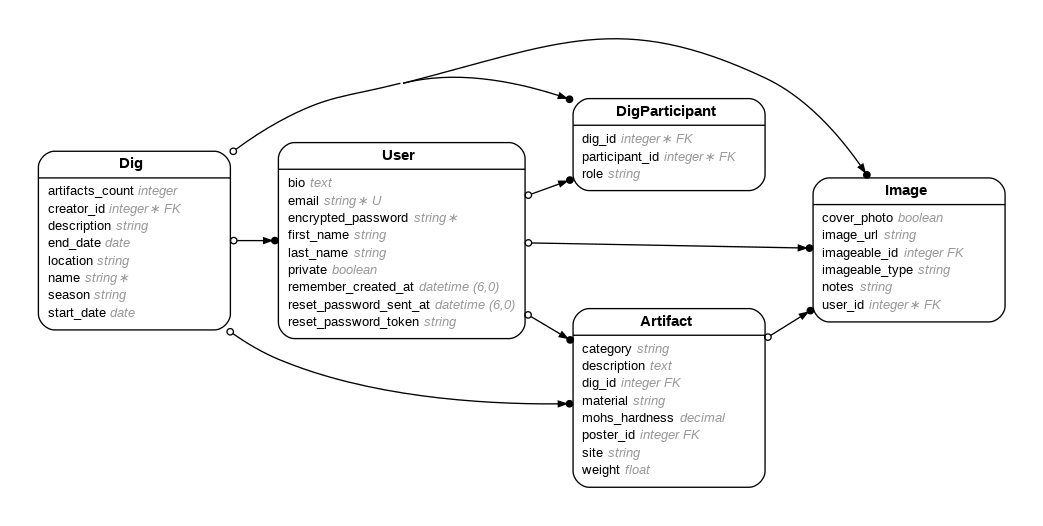
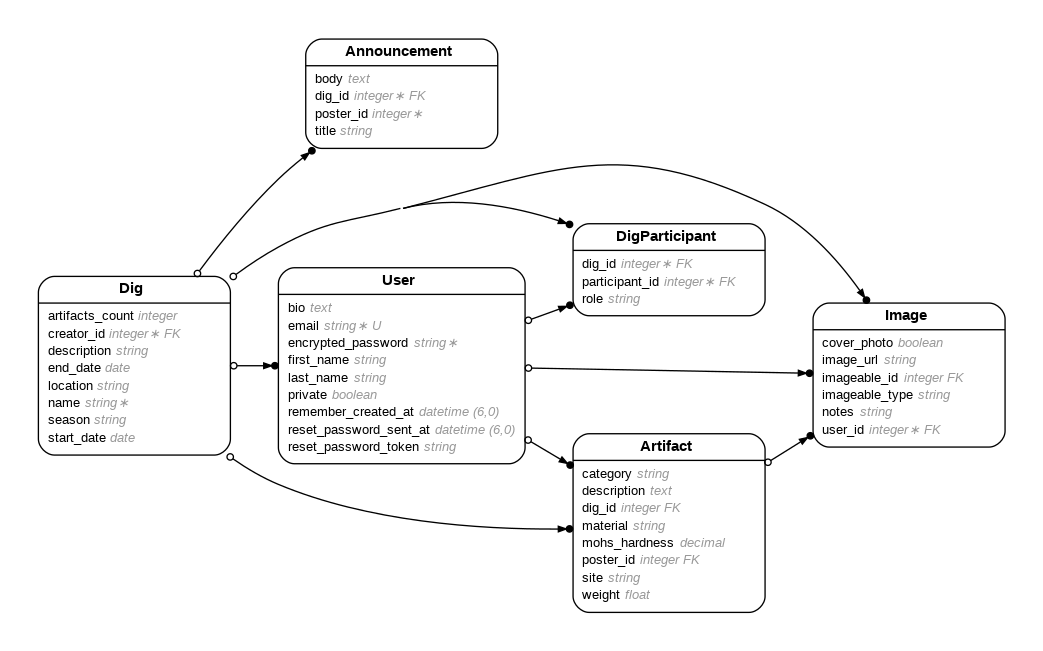
Scaffolded announcements, index works, added pundit policy

diff --git a/app/controllers/announcements_controller.rb b/app/controllers/announcements_controller.rb
@@ -1,0 +1,76 @@
+class AnnouncementsController < ApplicationController
+  before_action :set_announcement, only: %i[ show edit update destroy ]
+  before_action :set_dig
+  before_action(except: [:new, :create]) { authorize(@announcement || Announcement) }
+
+  # GET /announcements or /announcements.json
+  def index
+    @announcements = Announcement.where(:dig_id => @dig.id)
+  end
+
+  # GET /announcements/1 or /announcements/1.json
+  def show
+  end
+
+  # GET /announcements/new
+  def new
+    @announcement = Announcement.new
+  end
+
+  # GET /announcements/1/edit
+  def edit
+  end
+
+  # POST /announcements or /announcements.json
+  def create
+    @announcement = Announcement.new(announcement_params)
+
+    respond_to do |format|
+      if @announcement.save
+        format.html { redirect_to announcement_url(@announcement), notice: "Announcement was successfully created." }
+        format.json { render :show, status: :created, location: @announcement }
+      else
+        format.html { render :new, status: :unprocessable_entity }
+        format.json { render json: @announcement.errors, status: :unprocessable_entity }
+      end
+    end
+  end
+
+  # PATCH/PUT /announcements/1 or /announcements/1.json
+  def update
+    respond_to do |format|
+      if @announcement.update(announcement_params)
+        format.html { redirect_to announcement_url(@announcement), notice: "Announcement was successfully updated." }
+        format.json { render :show, status: :ok, location: @announcement }
+      else
+        format.html { render :edit, status: :unprocessable_entity }
+        format.json { render json: @announcement.errors, status: :unprocessable_entity }
+      end
+    end
+  end
+
+  # DELETE /announcements/1 or /announcements/1.json
+  def destroy
+    @announcement.destroy
+
+    respond_to do |format|
+      format.html { redirect_to announcements_url, notice: "Announcement was successfully destroyed." }
+      format.json { head :no_content }
+    end
+  end
+
+  private
+    # Use callbacks to share common setup or constraints between actions.
+    def set_announcement
+      @announcement = Announcement.find(params[:id])
+    end
+
+    # Only allow a list of trusted parameters through.
+    def announcement_params
+      params.require(:announcement).permit(:title, :body, :poster_id, :dig_id)
+    end
+
+    def set_dig
+      @dig = Dig.find(params.fetch(:dig_id))
+    end
+end

diff --git a/db/schema.rb b/db/schema.rb
@@ -10,7 +10,18 @@
 #
 # It's strongly recommended that you check this file into your version control system.
 
-ActiveRecord::Schema[7.0].define(version: 2023_11_16_214429) do
+ActiveRecord::Schema[7.0].define(version: 2023_11_19_184412) do
+  create_table "announcements", force: :cascade do |t|
+    t.string "title"
+    t.text "body"
+    t.integer "poster_id", null: false
+    t.integer "dig_id", null: false
+    t.datetime "created_at", null: false
+    t.datetime "updated_at", null: false
+    t.index ["dig_id"], name: "index_announcements_on_dig_id"
+    t.index ["poster_id"], name: "index_announcements_on_poster_id"
+  end
+
   create_table "artifacts", force: :cascade do |t|
     t.text "description"
     t.string "material"
@@ -78,6 +89,8 @@ ActiveRecord::Schema[7.0].define(version: 2023_11_16_214429) do
     t.index ["reset_password_token"], name: "index_users_on_reset_password_token", unique: true
   end
 
+  add_foreign_key "announcements", "digs"
+  add_foreign_key "announcements", "posters"
   add_foreign_key "dig_participants", "digs"
   add_foreign_key "dig_participants", "users", column: "participant_id"
   add_foreign_key "digs", "users", column: "creator_id"

diff --git a/app/policies/announcement_policy.rb b/app/policies/announcement_policy.rb
@@ -1,0 +1,52 @@
+class AnnouncementPolicy < ApplicationPolicy
+  attr_reader :user, :announcement
+
+  def initialize(user, announcement)
+    @user = user
+    @announcement = announcement
+  end
+
+  def index?
+    true
+  end
+
+  def show?
+    participant?
+  end
+
+  def new?
+    create?
+  end
+
+  def create?
+    lead?
+  end
+
+  def edit?
+    update?
+  end
+
+  def update?
+    poster?
+  end
+
+  def destroy?
+    poster?
+  end
+
+
+  private
+
+  def participant?
+    @announcement.dig.dig_participants.any? { |participant| participant.participant_id == user.id }
+  end
+
+  def lead?
+    @announcement.dig.leads.any? { |lead| lead.participant_id == user.id }
+  end
+
+  def poster?
+    @announcement.poster == user
+  end
+
+end

diff --git a/app/models/announcement.rb b/app/models/announcement.rb
@@ -1,0 +1,26 @@
+# == Schema Information
+#
+# Table name: announcements
+#
+#  id         :integer          not null, primary key
+#  body       :text
+#  title      :string
+#  created_at :datetime         not null
+#  updated_at :datetime         not null
+#  dig_id     :integer          not null
+#  poster_id  :integer          not null
+#
+# Indexes
+#
+#  index_announcements_on_dig_id     (dig_id)
+#  index_announcements_on_poster_id  (poster_id)
+#
+# Foreign Keys
+#
+#  dig_id     (dig_id => digs.id)
+#  poster_id  (poster_id => posters.id)
+#
+class Announcement < ApplicationRecord
+  belongs_to :poster
+  belongs_to :dig
+end

diff --git a/db/migrate/20231119184412_create_announcements.rb b/db/migrate/20231119184412_create_announcements.rb
@@ -1,0 +1,12 @@
+class CreateAnnouncements < ActiveRecord::Migration[7.0]
+  def change
+    create_table :announcements do |t|
+      t.string :title
+      t.text :body
+      t.references :poster, null: false, foreign_key: true
+      t.references :dig, null: false, foreign_key: true
+
+      t.timestamps
+    end
+  end
+end

diff --git a/app/models/dig.rb b/app/models/dig.rb
@@ -30,6 +30,7 @@ class Dig < ApplicationRecord
   has_many :leads, -> { leads }, class_name: "DigParticipant", dependent: :destroy
   has_many :images, as: :imageable, dependent: :destroy
   has_many :artifacts, dependent: :destroy
+  has_many :announcements, dependent: :destroy
   
   validates :name, presence: true
 

diff --git a/app/models/user.rb b/app/models/user.rb
@@ -29,4 +29,6 @@ class User < ApplicationRecord
   has_many :created_artifacts, class_name: "Artifact", foreign_key: "poster_id"
   has_many :dig_participants, foreign_key: "participant_id"
   has_many :digs, through: :dig_participants
+
+  has_many :announcements
 end

diff --git a/config/routes.rb b/config/routes.rb
@@ -4,6 +4,7 @@ Rails.application.routes.draw do
   resources :digs do
     resources :images
     resources :dig_participants, except: [:show]
+    resources :announcements
     resources :artifacts do
       resources :images
     end
